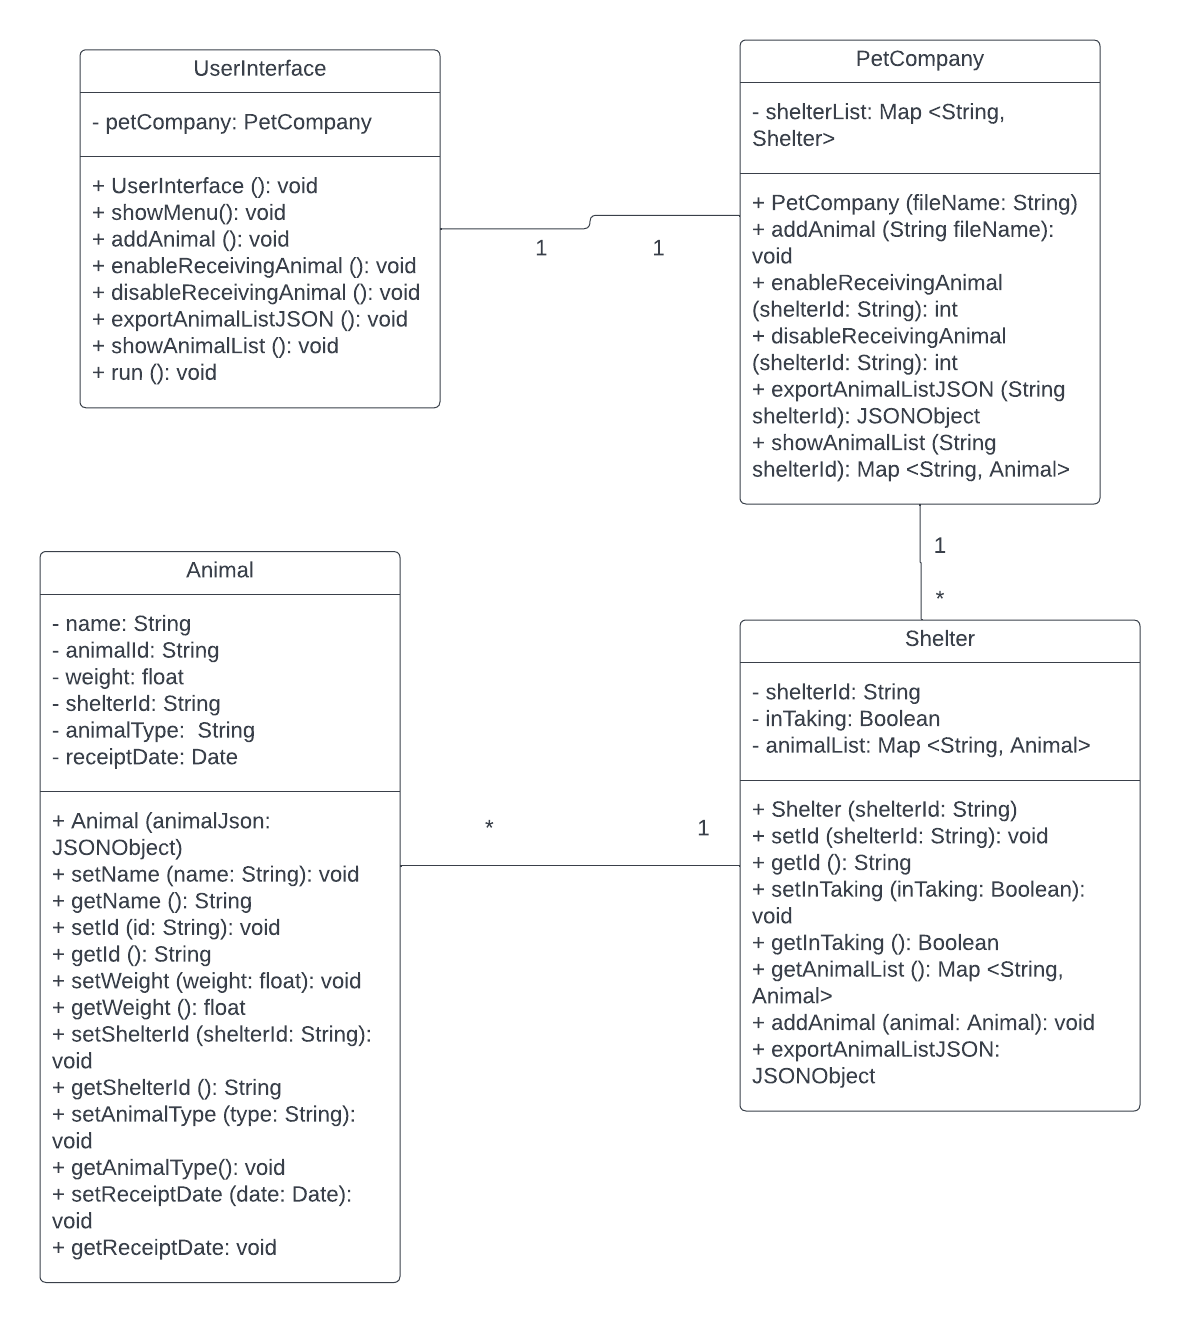
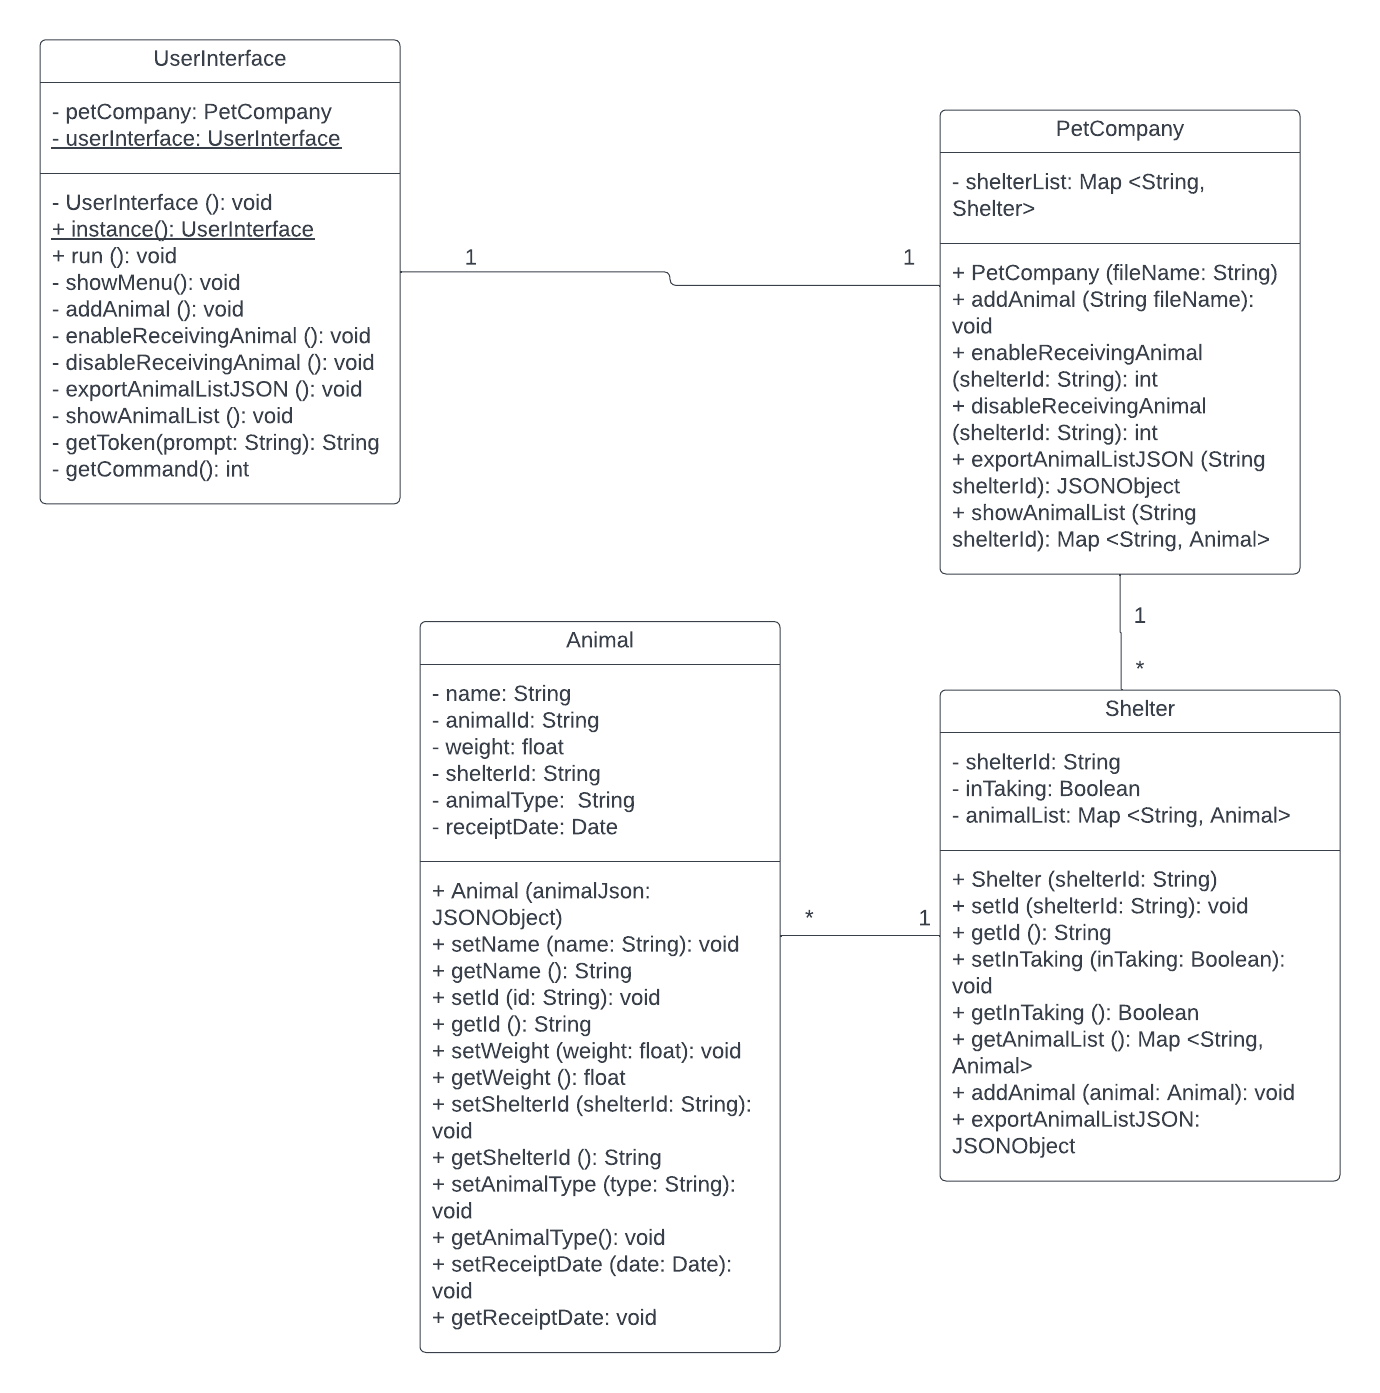
update class diagram

diff --git a/Project1/src/main/project1/ui/UserInterface.java b/Project1/src/main/project1/ui/UserInterface.java
@@ -59,7 +59,7 @@ public class UserInterface {
 	 * current animals for each shelter - Type 0 to quit
 	 *
 	 */
-	public void showMenu() {
+	private void showMenu() {
 		System.out.println("Enter a number between 0 and 6 as explained below:");
 		System.out.println(QUIT + " to Quit\n");
 		System.out.println(ADD_ANIMAL + " to add new animal to our shelter");
@@ -79,7 +79,7 @@ public class UserInterface {
 	 * @catch IOException, ParseException, ClassCastException
 	 *
 	 */
-	public void addAnimal() {
+	private void addAnimal() {
 		String name = getToken("Enter file name");
 		try {
 			company.addAnimal(name);
@@ -98,7 +98,7 @@ public class UserInterface {
 	 * inform the user
 	 *
 	 */
-	public void enableReceivingAnimal() {
+	private void enableReceivingAnimal() {
 		int result;
 		String shelterId = getToken("Enter Shelter ID");
 		result = company.enableReceivingAnimal(shelterId);
@@ -115,7 +115,7 @@ public class UserInterface {
 	 * inform the user
 	 *
 	 */
-	public void disableReceivingAnimal() {
+	private void disableReceivingAnimal() {
 		int result;
 		String shelterId = getToken("Enter Shelter ID");
 		result = company.disableReceivingAnimal(shelterId);
@@ -132,7 +132,7 @@ public class UserInterface {
 	 * the user Print the JSONObject to the screen
 	 *
 	 */
-	public void exportAnimalListJSON() {
+	private void exportAnimalListJSON() {
 		JSONObject result;
 		String shelterId = getToken("Enter Shelter ID");
 		result = company.exportAnimalListJSON(shelterId);
@@ -150,7 +150,7 @@ public class UserInterface {
 	 * the list of animals to the screen in a nice way
 	 *
 	 */
-	public void showAnimalList() {
+	private void showAnimalList() {
 		Map<String, Animal> result;
 		String shelterId = getToken("Enter Shelter ID");
 		result = company.showAnimalList(shelterId);
@@ -169,7 +169,7 @@ public class UserInterface {
 		}
 	}
 
-	public String getToken(String prompt) {
+	private String getToken(String prompt) {
 		do {
 			try {
 				System.out.println(prompt);
@@ -184,7 +184,7 @@ public class UserInterface {
 		} while (true);
 	}
 
-	public int getCommand() {
+	private int getCommand() {
 		do {
 			try {
 				int value = Integer.parseInt(getToken("Enter command:" + MENU + " for Menu"));
@@ -230,8 +230,7 @@ public class UserInterface {
 	}
 
 	public static void main(String[] args) {
-		UserInterface ui = new UserInterface();
+		UserInterface ui = UserInterface.instance();
 		ui.run();
 	}
 }
-
